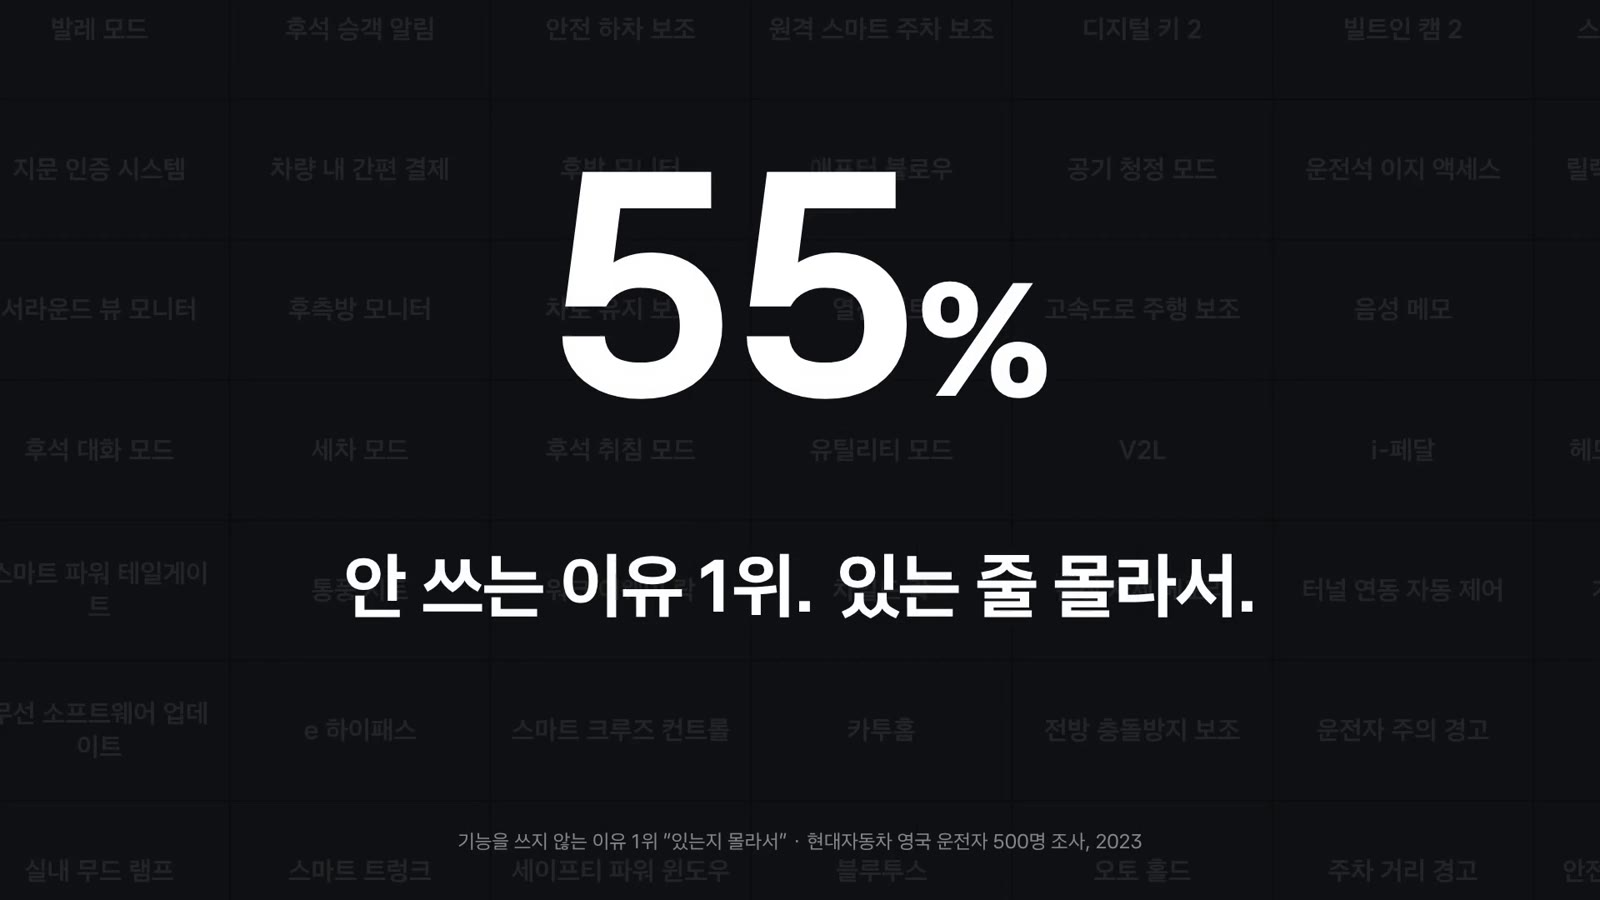
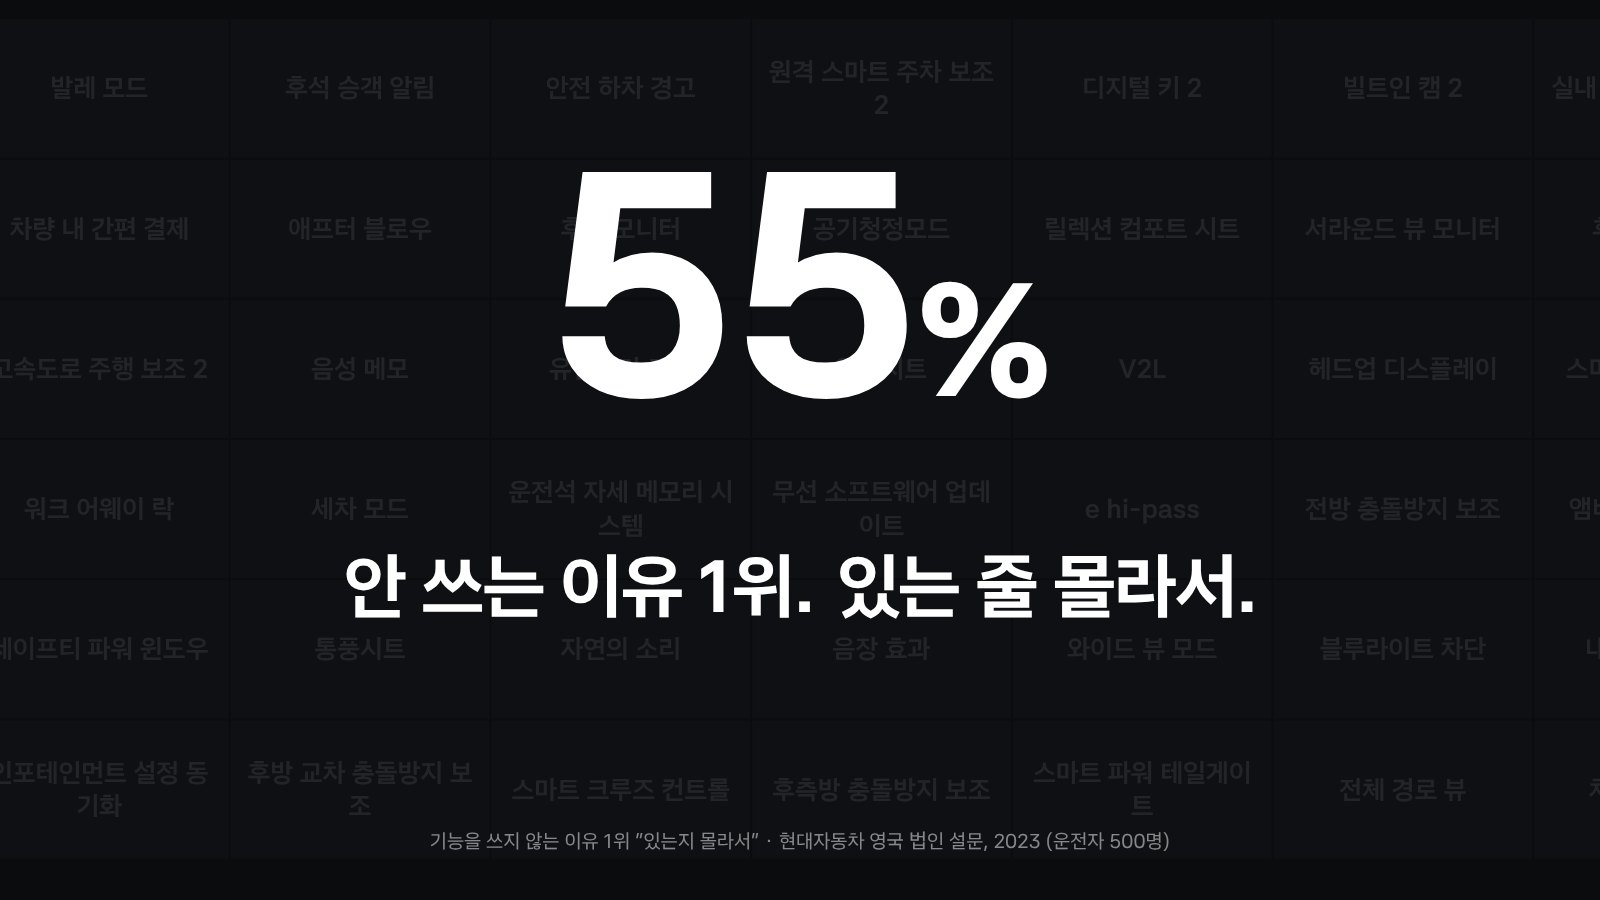
케이스 상단 영상: 제목 먼저, 잠시 뒤 구분선 아래로 영상 칸이 열리게
2026-11-20 대표 결정: 제목을 먼저 보여 주고 잠시 뒤 구분선 아래로 영상 칸이 열리게

- 처음엔 제목 섹션과 구분선만. 약 0.6초 뒤 칸이 높이 0 → 화면 - 헤더로 열리고(700ms), 영상은 위에서 떨어지듯 들어온다. 다 열리면 아래 본문을 보인다
- 영상은 열리기 전엔 0초에서 멈춰 두고, 칸이 열리는 순간부터 재생
- 처음 한 번만. 등장 중 스크롤하거나 이미 내려와 있으면(스크롤 복원) 바로 끝난 상태
- 640px 이하는 같은 순서로 16:9, 동작 줄이기는 등장 없이 칼럼 크기·멈춤·스틸
- 숨김·크기 클래스는 조각 안 인라인 스크립트가 첫 그림 전에 붙인다. JS 가 없으면 칼럼 크기 스틸과 본문이 그대로 보이고 버튼은 숨김
- 최종 크기를 CSS(100vw, calc(100svh - var(--header-h)))로 먼저 잡아 칼럼 크기로 잠깐 보이던 문제 해결
- 스틸 sun_9.5.jpg 를 새 출처 줄 판으로 교체, 영상 아래 안내 줄 14px·--w-ink-2

diff --git a/src/js/case-film.js b/src/js/case-film.js
@@ -1,18 +1,22 @@
 // ── 케이스 상단 전체 영상 (case-film 조각) ─────────────────────────────────
-// 1) 처음: 헤더 아래 화면 전체(가로 전체, 높이 = 화면 - 헤더). 검은 칸 안에 영상 16:9 가운데(contain).
-//    들어오면 한 번만 위에서 살짝 떨어지듯 자리 잡는다.
+// 1) 등장(처음 한 번): 제목과 구분선만 보이다가 약 0.6초 뒤 구분선 아래로 칸이 열리고(높이 0 → 최종),
+//    영상은 위에서 떨어지듯 들어온다. 영상은 이때 0초부터 재생, 다 열리면 아래 본문을 보인다.
+//    등장 중 스크롤하면(새로고침·뒤로 가기의 스크롤 복원 포함) 바로 끝난 상태로 넘긴다.
+//    intro·film-js 클래스는 조각 안의 인라인 스크립트가 첫 그림 전에 붙인다.
+//    최종 크기: 헤더 아래 화면 전체(가로 전체, 높이 = 화면 - 헤더). 검은 칸 안에 영상 16:9 가운데(contain).
 // 2) 칸 위쪽이 헤더 아래에 닿으면 sticky 로 고정, 고정된 채 스크롤 약 60svh 동안
 //    본문 칼럼(16:9) 크기로 줄고, 다 줄면 고정이 풀려 본문과 함께 올라간다.
 //    iframe 크기는 큰 크기로 한 번만 정하고 transform: scale() 로만 줄인다.
 //    검은 칸(.case-film-box)은 너비·높이·모서리를 함께 줄인다.
 //    고정 구간 길이: 바깥 틀(.case-film) 높이 = 줄어드는 거리 + 줄어든 높이.
-// 3) 640px 이하: 고정·줄이기·떨어지기 없이 화면 가로 전체 16:9.
+// 3) 640px 이하: 같은 순서로 열리되 화면 가로 전체 16:9, 고정·줄이기 없음.
 //    동작 줄이기: 처음부터 본문 칼럼 크기, 멈춘 상태, 스틸(poster)을 덮어 둔다.
 // 4) 일시정지/재생 버튼(영상 오른쪽 아래), 화면 밖에서는 잠시 멈춤.
 
 const HEADER = 64   // 고정 헤더 높이
 const SHRINK = 0.6  // 줄어드는 구간: 화면 높이의 60%
 const RADIUS = 14   // 다 줄었을 때 모서리 (기존 카드 반경)
+const OPEN_AT = 600 // 페이지에 들어온 뒤 칸이 열리기 시작하는 때(ms)
 
 export function initCaseFilm() {
   const root = document.querySelector('[data-case-film]')
@@ -28,17 +32,18 @@ export function initCaseFilm() {
 
   // ── 재생 상태 ──
   let userPaused = mqReduce.matches // 동작 줄이기면 멈춘 채로 시작
+  let waiting = root.classList.contains('intro') // 칸이 열리기 전: 불러만 두고 멈춤
   let inView = true
   const send = (msg) => iframe.contentWindow?.postMessage(msg, location.origin)
-  const syncPlay = () => send({ type: userPaused || !inView ? 'pause' : 'play' })
+  const syncPlay = () => send({ type: userPaused || waiting || !inView ? 'pause' : 'play' })
   const syncBtn = () => {
     btn.setAttribute('aria-label', userPaused ? '영상 재생' : '영상 일시정지')
     btn.classList.toggle('paused', userPaused)
   }
 
-  if (poster && userPaused) poster.hidden = false
+  if (poster) poster.hidden = !userPaused // 스틸은 멈춘 채 시작할 때만
   iframe.addEventListener('load', syncPlay, { once: true })
-  iframe.src = iframe.dataset.src + (userPaused ? '&paused=1' : '')
+  iframe.src = iframe.dataset.src + (userPaused || waiting ? '&paused=1' : '')
   btn.hidden = false
   syncBtn()
 
@@ -112,7 +117,28 @@ export function initCaseFilm() {
   mqNarrow.addEventListener?.('change', measure)
   measure()
 
-  // 들어올 때 떨어지는 동작(CSS)은 처음 한 번만. 끝나면 다시 걸리지 않게 끈다
-  box.addEventListener('animationend', () => box.classList.add('dropped'), { once: true })
-  if (mode !== 'live') box.classList.add('dropped')
+  // ── 등장 ──
+  if (!waiting) return
+  const body = root.closest('.dt-body')
+  let timer = 0
+  const finish = () => {
+    if (!waiting && !root.classList.contains('opening')) return
+    clearTimeout(timer)
+    removeEventListener('scroll', onScroll)
+    root.classList.remove('intro', 'opening')
+    body?.classList.remove('film-intro')
+    if (waiting) { waiting = false; syncPlay() }
+  }
+  const onScroll = () => finish()
+  const open = () => {
+    if (mode === 'col') return finish()
+    waiting = false
+    syncPlay() // 0초에서 멈춰 있던 영상을 칸이 열리는 순간부터 재생
+    root.classList.remove('intro')
+    root.classList.add('opening')
+    box.addEventListener('animationend', (e) => { if (e.target === box) finish() })
+  }
+  addEventListener('scroll', onScroll, { passive: true })
+  if (scrollY > 0) finish() // 이미 내려와 있으면(스크롤 복원) 등장 없이
+  else timer = setTimeout(open, Math.max(0, OPEN_AT - performance.now()))
 }

diff --git a/src/css/detail.css b/src/css/detail.css
@@ -109,30 +109,52 @@
    .case-film-box   검은 칸. 너비·높이·모서리를 JS 가 줄인다. 칼럼 밖 화면 가로 전체까지 나간다
    .case-film-frame iframe 자리. 가장 큰 영상 크기로 한 번 정하고 transform 으로만 줄인다 */
 html:has([data-case-film]) { overflow-anchor: none; }
-.case-film { position: relative; margin-top: 40px; aspect-ratio: 16 / 9; }
-.case-film.live, .case-film.wide { aspect-ratio: auto; }
-.case-film.live { margin-top: 32px; }
-.case-film.wide { margin-top: 28px; }
+.case-film-rule { margin: 32px 0 0; border: 0; border-top: 1px solid var(--w-line); }
+
+/* JS 없음·동작 줄이기: 본문 칼럼 16:9 */
+.case-film { position: relative; margin-top: 24px; aspect-ratio: 16 / 9; }
 .case-film-stick { position: relative; z-index: 5; height: 100%; }
-.case-film.live .case-film-stick { position: sticky; top: 64px; }
 .case-film-box { position: relative; width: 100%; height: 100%; overflow: hidden; background: #000; border-radius: 14px; }
-/* 들어올 때 한 번만 떨어지듯. 첫 그림부터 걸리도록 CSS 로 두고, 끝나면 JS 가 .dropped 로 끈다 */
-@media (min-width: 641px) and (prefers-reduced-motion: no-preference) {
-  .case-film-box:not(.dropped) { animation: case-film-drop .6s cubic-bezier(.22, .61, .36, 1) both; }
-}
-@keyframes case-film-drop { from { opacity: 0; transform: translateY(-32px); } }
+.case-film-fall { position: absolute; inset: 0; }
 .case-film-frame { position: absolute; top: 0; left: 0; width: 100%; height: 100%; transform-origin: 0 0; }
 .case-film-frame iframe,
 .case-film-poster { position: absolute; inset: 0; width: 100%; height: 100%; border: 0; }
 .case-film-frame iframe { pointer-events: none; background: #000; }
 .case-film-poster { object-fit: cover; }
 .case-film-poster[hidden] { display: none; }
+
+/* JS 있음: 최종 크기를 계산 전에 CSS 로 먼저 잡는다 (구분선 바로 아래, 화면 가로 전체) */
+@media (prefers-reduced-motion: no-preference) {
+  .case-film.film-js { margin-top: 0; aspect-ratio: auto; height: calc(100svh - var(--header-h)); }
+  .case-film.film-js .case-film-box {
+    width: 100vw; margin-left: calc(50% - 50vw); border-radius: 0;
+    height: calc(100svh - var(--header-h));
+  }
+  .case-film.film-js .case-film-stick { height: calc(100svh - var(--header-h)); }
+}
+@media (max-width: 640px) and (prefers-reduced-motion: no-preference) {
+  .case-film.film-js,
+  .case-film.film-js .case-film-stick,
+  .case-film.film-js .case-film-box { height: 56.25vw; }
+}
+.case-film.live .case-film-stick { position: sticky; top: var(--header-h); }
+
+/* 등장: intro(닫힘, 아래 본문 숨김) → opening(칸 0 → 최종 높이, 영상은 위에서 떨어짐) → 끝 */
+.case-film.intro .case-film-box { height: 0 !important; }
+.case-film.intro .case-film-fall { opacity: 0; }
+.case-film.opening .case-film-box { animation: case-film-open .7s cubic-bezier(.22, .61, .36, 1) both; }
+.case-film.opening .case-film-fall { animation: case-film-fall .7s cubic-bezier(.22, .61, .36, 1) both; }
+@keyframes case-film-open { from { height: 0; } }
+@keyframes case-film-fall { from { opacity: 0; transform: translateY(-40px); } }
+.dt-body.film-intro .case-film ~ * { visibility: hidden; }
+
 .case-film-pp {
   position: absolute; right: 14px; bottom: 14px; z-index: 1;
   display: grid; place-items: center; width: 40px; height: 40px; border-radius: 50%;
   background: rgba(18, 23, 21, .72); color: #fff;
   transition: background-color .15s;
 }
+.case-film-pp[hidden] { display: none; }
 .case-film-pp:hover { background: var(--w-ink); }
 .case-film-pp svg { width: 16px; height: 16px; }
 .case-film-pp .i-play,
@@ -153,7 +175,7 @@ html:has([data-case-film]) { overflow-anchor: none; }
 .case-overview dt { font-size: 14px; color: var(--w-ink-3); line-height: 1.55; }
 .case-overview dd { margin: 0; font-size: 15px; font-weight: 600; line-height: 1.55; }
 
-.case-film-note { margin-top: 12px; font-size: 13.5px; line-height: 1.5; color: var(--w-ink-3); }
+.case-film-note { margin-top: 12px; font-size: 14px; line-height: 1.55; color: var(--w-ink-2); }
 
 .case-source-ref {
   font-size: 13px; font-weight: 600; color: var(--w-green); white-space: nowrap;

diff --git a/src/css/shared.css b/src/css/shared.css
@@ -61,6 +61,7 @@
   --w-serif: 'MaruBuri', 'Noto Serif KR', serif;
   --w-sans: 'Pretendard Variable', Pretendard, -apple-system, sans-serif;
   --w-frame: 1240px;
+  --header-h: 64px;
   --w-pad: clamp(20px, 5vw, 64px);
 }
 
